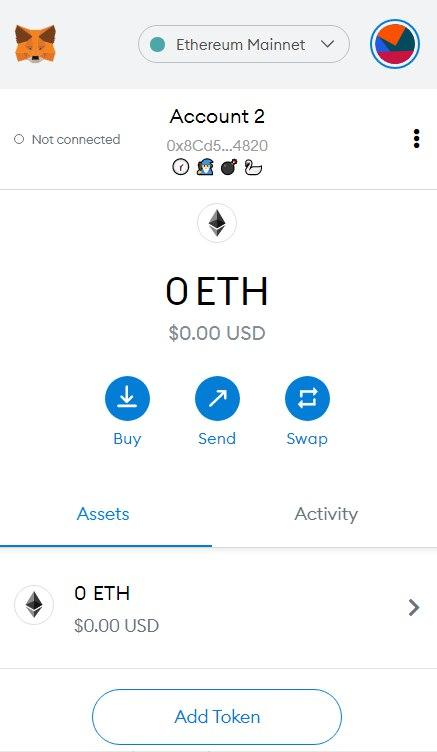
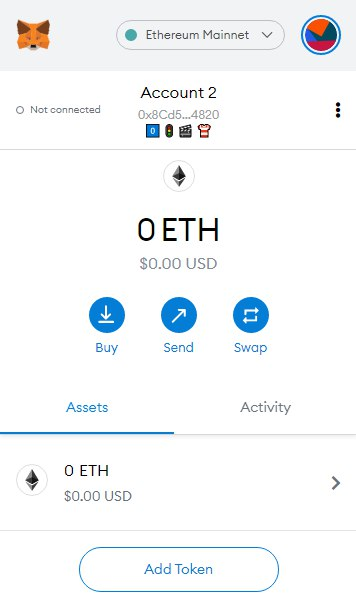
better emoji list

diff --git a/assets/script.py b/assets/script.py
@@ -1,5 +1,5 @@
 import scrypt
-from emoji import unicode_codes
+import json
 import sys
 
 def chunks(lst, n):
@@ -7,15 +7,17 @@ def chunks(lst, n):
         yield lst[i:i + n]
 
 if __name__ == "__main__":
-    single_char_emojis = list(filter(lambda i: len(i) == 1, unicode_codes.EMOJI_UNICODE.values()))
+    with open('./emoji-list.json') as emoji_list:
+      data = json.load(emoji_list)
+      emojis = list(data)
 
-    address = bytes(bytearray.fromhex(sys.argv[1]))
+      address = bytes(bytearray.fromhex(sys.argv[1]))
 
-    addr_hash = scrypt.hash(address, address)
+      addr_hash = scrypt.hash(address, address)
 
-    emoji_str = ""
-    for i in chunks(addr_hash, 16):
-        hash_chunk = int.from_bytes(i, "big")
-        idx = hash_chunk % len(single_char_emojis)
-        emoji_str += single_char_emojis[idx] + " "
-    print(emoji_str)
+      emoji_str = ""
+      for i in chunks(addr_hash, 16):
+          hash_chunk = int.from_bytes(i, "big")
+          idx = hash_chunk % len(emojis)
+          emoji_str += emojis[idx] + " "
+      print(emoji_str)

diff --git a/assets/print_emoji_list.py b/assets/print_emoji_list.py
@@ -1,0 +1,6 @@
+import json
+
+if __name__ == "__main__":
+    with open('./emoji-list.json') as emoji_list:
+      data = json.load(emoji_list)
+      print(data)
